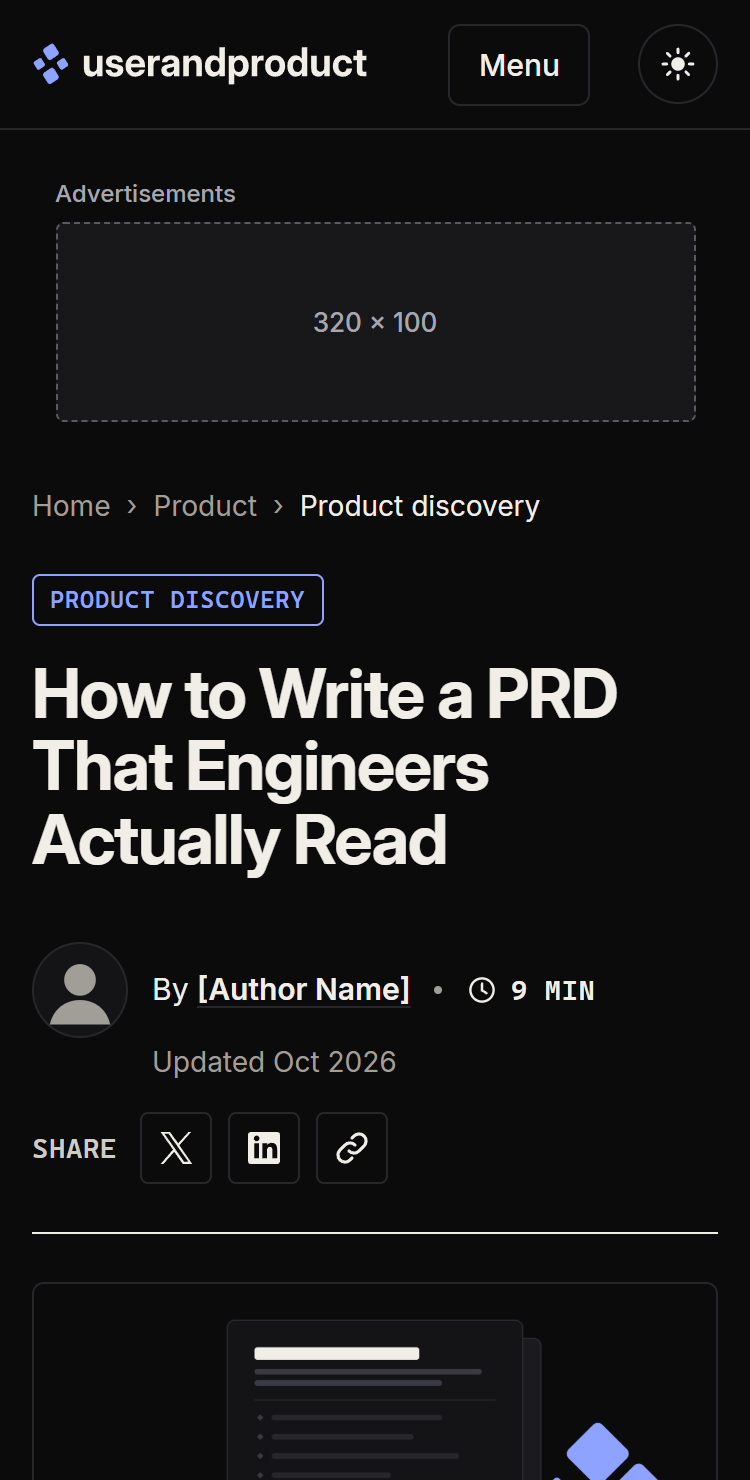
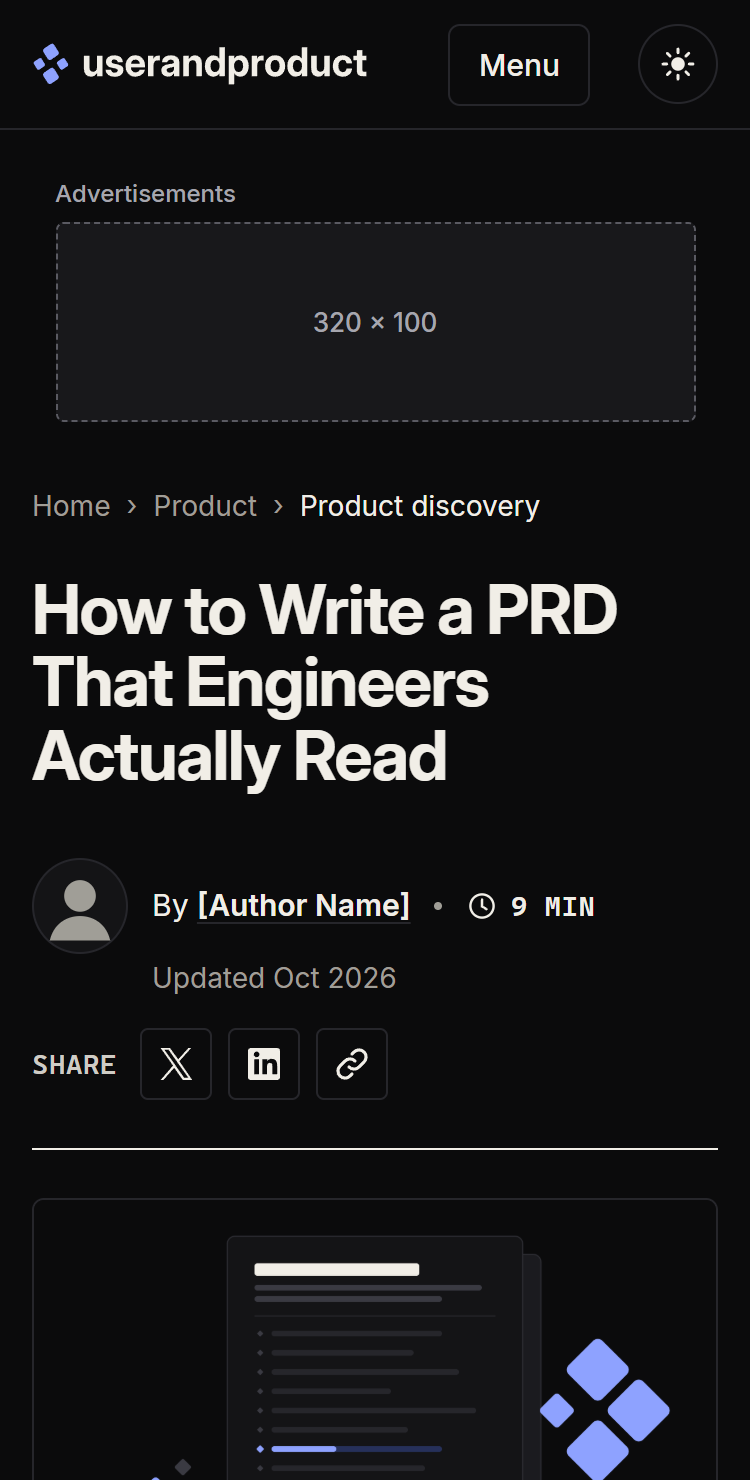
Article A: chip removed, fluid three-column grid tuned for laptop screens

diff --git a/research/mockups/article/article.css b/research/mockups/article/article.css
@@ -32,8 +32,9 @@
 
 /* =========================================================
    A: Sidebar, on the Tiger Data structure. Full-width top block, hairline rule,
-   then three columns from 1200px: 260px sticky tools and contents, the reading
-   column, a 300px ad rail. Both rails live in .layout, so they stop at the body end.
+   then a fluid grid. From 1280px three columns: a 200px+ sticky tools and contents
+   rail, the reading column (560 to 720px) and a fixed 300px rail. Both rails live
+   in .layout, so they stop at the body end.
    ========================================================= */
 .va{--frame:1280px;--mono:ui-monospace,"Cascadia Mono","SFMono-Regular",Consolas,Menlo,monospace}
 .va .page{max-width:1280px}
@@ -65,7 +66,7 @@
 .va .top-rule{height:1px;border:0;background:var(--rule-strong);margin:var(--s5) 0 0}
 
 .va .layout{display:grid;grid-template-columns:minmax(0,1fr)}
-.va .side,.va .rail{display:none}
+.va .side-col,.va .rail{display:none}
 .va .main{min-width:0;max-width:720px;padding-top:var(--s5)}
 .va .main .hero-fig{margin-top:0}
 .va .main>.deck{margin-top:var(--s5);font-size:19px;line-height:1.55}
@@ -83,47 +84,65 @@
 
 /* in-body units: two 336x280 below 1024px; from 1024px one 300x250 between the third and fourth H2 */
 .va [data-ad="in-body-300x250"]{display:none}
-.ad--sky .ad__box{--w:160px;--h:600px}
+.ad--rail .ad__box{--w:300px;--h:250px}
+/* Content box = min(viewport, 1280 or 1440 from 1360) minus two 40px gutters.
+   1024 to 1199: 240px left rail + 32px + reading column (672 to 720px). The right rail's block follows the body
+   in the reading column: the compact list beside a 300x250, not sticky. */
 @media (min-width:1024px){
   .va [data-ad="in-article-1"],.va [data-ad="in-article-2"]{display:none}
   .va [data-ad="in-body-300x250"]{display:block}
   .va .layout{grid-template-columns:240px minmax(0,720px);column-gap:32px}
-  .va .side{display:flex;flex-direction:column;align-items:flex-start;gap:var(--s6);position:sticky;top:24px;align-self:start;
-    max-height:calc(100vh - 48px);overflow:auto;padding-top:var(--s6);grid-column:1;grid-row:1}
+  /* .side-col spans only the body's row, so the sticky rail inside it stops where the body ends */
+  .va .side-col{display:block;grid-column:1;grid-row:1;min-width:0}
+  .va .side{display:flex;flex-direction:column;align-items:flex-start;gap:var(--s6);position:sticky;top:24px;
+    max-height:calc(100vh - 48px);overflow:auto;padding-top:var(--s6)}
   .va .main{grid-column:2;grid-row:1;padding-top:var(--s6)}
   .va .m-only,.va .toc-m{display:none}
-}
-/* right rail from 1200px, two blocks: the compact "More in <category>" list, then the rail unit.
-   The rail is as tall as the body. The list scrolls with the page; the ad's track fills the rest of the rail
-   and only the ad sticks inside it, so it stops at the body end.
-   Rail unit: 160x600 from 1200 to 1439px, 300x600 from 1440px. */
-@media (min-width:1200px){
-  .va .layout{grid-template-columns:240px minmax(0,720px) 160px}
-  .va .rail{display:flex;flex-direction:column;gap:var(--s6);grid-column:3;grid-row:1;padding-top:var(--s6);min-width:0}
+  .va .rail{display:grid;grid-template-columns:minmax(0,1fr) 300px;column-gap:32px;align-items:start;
+    grid-column:2;grid-row:2;margin-top:var(--s8);min-width:0}
   .va .rail .ad{margin:0}
+}
+/* 1200 to 1279: the content box is 1120 to 1199px, and three columns need 200 + 560 + 300 + 2 x 32 = 1124px,
+   so the left rail folds into the compact contents above the body and the right rail keeps its full 300px.
+   From 1200px the rail is two blocks: the compact "More in <category>" list, then the 300x600 rail unit.
+   The rail is as tall as the body; the list scrolls with the page, the ad's track fills the rest of the rail
+   and only the ad sticks inside it, so it stops at the body end. */
+@media (min-width:1200px){
+  .va .layout{grid-template-columns:minmax(0,1fr) 300px;column-gap:32px}
+  .va .side-col{display:none}
+  .va .main{grid-column:1}
+  .va .m-only,.va .toc-m{display:block}
+  .va .rail{display:flex;flex-direction:column;gap:var(--s6);grid-column:2;grid-row:1;margin-top:0;padding-top:var(--s6)}
   .va .rail__track{flex:1 0 auto}
   .va .rail__sticky{position:sticky;top:24px}
+  .ad--rail .ad__box{--h:600px}
+  .ad--rail .sz-0{display:none}
+  .ad--rail .sz-1{display:block}
+}
+/* from 1280px: three fluid columns. The right rail is fixed at the ad's 300px; the reading column grows first,
+   up to its 720px measure; the left rail takes what is left (200px at 1280, 244px at 1440 and up).
+   Gaps stay 32px while the page is capped at 1280 (to 1359px), then grow to 48px at 1440 as the cap lifts to 1440. */
+@media (min-width:1280px){
+  .va .layout{grid-template-columns:minmax(200px,1fr) minmax(560px,720px) 300px;column-gap:clamp(32px,20vw - 240px,48px)}
+  .va .side-col{display:block}
+  .va .main{grid-column:2}
+  .va .rail{grid-column:3}
+  .va .m-only,.va .toc-m{display:none}
 }
 .rail-list h2{font:500 12px/1.4 var(--mono);letter-spacing:.06em;text-transform:uppercase;color:var(--ink-3);margin:0;padding-bottom:var(--s2);border-bottom:1px solid var(--rule)}
 .rail-list ul{list-style:none;margin:0;padding:0}
 .rail-list li{border-bottom:1px solid var(--rule)}
-/* compact list: 64px 16:9 thumbnail left of a meta-size title (72px on the 300px rail) */
+/* compact list: 64px 16:9 thumbnail left of a meta-size title (72px from 1024, on the 300px rail and after the body) */
 .rail-list--compact a{display:grid;grid-template-columns:64px minmax(0,1fr);gap:10px;align-items:start;padding:10px 0;
   color:var(--ink);text-decoration:none;font:500 13px/1.3 var(--font-ui)}
 .rail-list--compact img{display:block;width:100%;height:auto;aspect-ratio:16/9;border-radius:3px;margin-top:2px}
 .rail-list--compact a:hover{color:var(--signal)}
 .rail-list--compact a:hover .rail-t{text-decoration:underline;text-underline-offset:.18em}
 .rail-list--compact a:focus-visible{outline:2px solid var(--focus);outline-offset:2px;border-radius:3px}
-@media (min-width:1440px){.rail-list--compact a{grid-template-columns:72px minmax(0,1fr);gap:12px;font-size:var(--fs-meta)}}
+@media (min-width:1024px){.rail-list--compact a{grid-template-columns:72px minmax(0,1fr);gap:12px}}
 @media (min-width:1360px){
   .va{--frame:1440px}
   .va .page{max-width:1440px}
-}
-@media (min-width:1440px){
-  .va .layout{grid-template-columns:240px minmax(0,720px) 300px;column-gap:40px}
-  .ad--sky .ad__box{--w:300px}
-  .ad--sky .sz-0{display:none}
-  .ad--sky .sz-1{display:block}
 }
 .va .after>.tpl{margin-top:var(--s8)}
 /* Just published (was Related), Tiger Data style: label on a hairline, three large cards, thumbnail, chips, title */

diff --git a/research/mockups/article/index.html b/research/mockups/article/index.html
@@ -82,9 +82,9 @@
         <img class="l-dark" src="shots/article-a-375-dark.png" alt="Variant A at phone width, dark theme" width="375" height="740" loading="lazy">
       </a>
       <h2><a href="article-a.html">A. Sidebar</a></h2>
-      <p class="note">The Tiger Data structure. A full-width top block: breadcrumb, category chip, a 60px headline on two lines, a byline row (48px avatar, author link, read time, "Updated Oct 2026") with Share buttons on the right, then a hairline rule. Below it: a sticky 240px left rail with a Copy link button, tag chips and a numbered table of contents (the section you are reading is highlighted); a 720px centre column (720px at 1280, 1366 and 1440) with the hero image, the body (running text about 71 characters a line); and from 1200px a right rail of two blocks: a compact &ldquo;More in Product discovery&rdquo; list (four pieces from the article&rsquo;s category, each a small 16:9 thumbnail, 64px wide on the 160px rail and 72px on the 300px rail, left of a title at meta size, no dates), then the rail unit (a 160&times;600 skyscraper up to 1439px, a 300&times;600 half page from 1440px). The list scrolls with the page; only the ad is sticky, in the space below the list, and it stops where the body ends. Both rails stop there; after the body the page uses the full container for the template block (three cards in a row), a &ldquo;// Just published&rdquo; row in the Tiger Data style (the label on a hairline rule, three large cards with a thumbnail, a tag chip and a 24px title, no dates; the heading is one constant in build.py, with &ldquo;Fresh from the desk&rdquo;, &ldquo;New this week&rdquo; and &ldquo;Latest&rdquo; noted as alternatives) and the newsletter line. No author box: the byline carries the author. From 1024px a 300&times;250 sits in the body between the third and fourth H2. On phones the contents fold into a disclosure, two 336&times;280 units sit between sections, and a collapsible 320&times;50 anchor shows only while you read the body (demonstration only). Leaderboard under the header; container up to 1360px. Body type: Inter 18px, headings Inter Display Bold.</p>
+      <p class="note">The Tiger Data structure. A full-width top block: breadcrumb (the category shows there only, no chip above the title), a 60px headline on two lines, a byline row (48px avatar, author link, read time, "Updated Oct 2026") with Share buttons on the right, then a hairline rule. Below it a fluid grid. From 1280px three columns: a sticky left rail with tag chips and a numbered table of contents (the section you are reading is highlighted), 200px at 1280 and 1366 and 244px from 1440; the reading column, 636px at 1280 and 720px from 1366 (running text about 70 characters a line, never narrower than 560px); and a fixed 300px right rail. Gaps are 32px up to 1359px and grow to 48px at 1440. From 1200 to 1279px the three columns do not fit, so the left rail folds into the compact contents above the body and the right rail keeps its 300px. The right rail has two blocks: a compact &ldquo;More in Product discovery&rdquo; list (four pieces from the article&rsquo;s category, each a 72px 16:9 thumbnail left of a title at meta size, two lines at most, no dates), then a 300&times;600 half page. The list scrolls with the page; only the ad is sticky, in the space below the list, and it stops where the body ends. From 1024 to 1199px the page has the left rail and the reading column, and the same block follows the body in the reading column: the list beside a 300&times;250, not sticky. Both rails stop at the body end; after the body the page uses the full container for the template block (three cards in a row), a &ldquo;// Just published&rdquo; row in the Tiger Data style (the label on a hairline rule, three large cards with a thumbnail, a tag chip and a 24px title, no dates; the heading is one constant in build.py, with &ldquo;Fresh from the desk&rdquo;, &ldquo;New this week&rdquo; and &ldquo;Latest&rdquo; noted as alternatives) and the newsletter line. No author box: the byline carries the author. From 1024px a 300&times;250 sits in the body between the third and fourth H2. On phones the contents fold into a disclosure, two 336&times;280 units sit between sections, and a collapsible 320&times;50 anchor shows only while you read the body (demonstration only). Leaderboard under the header; container up to 1440px. Checked at ten viewports from 375&times;812 to 1920&times;1080, light and dark (<a href="shots/README.md">shots/README.md</a>). Body type: Inter 18px, headings Inter Display Bold.</p>
       <dl class="facts">
-        <dt>Ad units</dt><dd>3 from 1200px (leaderboard, rail unit, 300&times;250 in the body); 2 at 1024 to 1199; 4 at 375 (320&times;100 leaderboard, 2 in-article, anchor)</dd>
+        <dt>Ad units</dt><dd>3 from 1024px (leaderboard, 300&times;250 in the body, the rail unit: 300&times;600 on the rail from 1200, 300&times;250 after the body at 1024 to 1199), never more than 2 in one view; 4 at 375 (320&times;100 leaderboard, 2 in-article, anchor)</dd>
         <dt>Max in view</dt><dd>2 at 1280&times;720, 1280&times;800, 1366&times;768 and 1440&times;900; 1 at 1100 and 768; 2 at 375</dd>
         <dt>Mobile density</dt><dd>6.2% of the article, 5.8% of the page</dd>
       </dl>

diff --git a/research/mockups/article/article-a.html b/research/mockups/article/article-a.html
@@ -36,7 +36,6 @@
     <nav class="crumbs" aria-label="Breadcrumb"><ol>
       <li><a href="../home/index.html">Home</a></li><li><a href="../category/index.html">Product</a></li><li><a href="../category/index.html" aria-current="page">Product discovery</a></li>
     </ol></nav>
-    <a class="chip chip--cat" href="../category/index.html">Product discovery</a>
     <h1>How to Write a PRD That Engineers Actually Read</h1>
     <div class="byrow">
       <div class="by">
@@ -58,10 +57,10 @@
   </header>
   <hr class="top-rule">
   <div class="layout">
-    <aside class="side" aria-label="Article tools and contents">
+    <div class="side-col"><aside class="side" aria-label="Article tools and contents">
       <ul class="chips" aria-label="Tags"><li><a href="#">PRD</a></li><li><a href="#">Discovery</a></li><li><a href="#">Templates</a></li></ul>
       <nav class="toc toc--num" data-toc aria-labelledby="toc-h"><h2 id="toc-h">Table of contents</h2><ol><li><a href="#why-prds-fail"><span class="n">01</span>Why most PRDs fail</a></li><li><a href="#twelve-questions"><span class="n">02</span>The twelve questions to answer first</a></li><li><a href="#structure"><span class="n">03</span>The structure that works</a></li><li><a href="#worked-example"><span class="n">04</span>A worked example</a></li><li><a href="#acceptance"><span class="n">05</span>Acceptance lines and open questions</a></li><li><a href="#leave-out"><span class="n">06</span>What to leave out</a></li><li><a href="#template"><span class="n">07</span>Get the PRD template</a></li></ol></nav>
-    </aside>
+    </aside></div>
     <div class="main">
       <figure class="hero-fig">
       <picture><source srcset="img/hero-prd-dark.png" media="(prefers-color-scheme: dark)" data-dark><img class="" src="img/hero-prd-light.png" width="1200" height="675" alt="Illustration: a PRD page with twelve question lines, three of them marked in blue, beside four blue tiles" fetchpriority="high" decoding="async"></picture>
@@ -176,10 +175,11 @@ grep -rn "TBD" docs/prd/ | sort | tee open-items.txt | wc -l</code></pre>
     </div>
     <aside class="rail" aria-label="More to read">
       <nav class="rail-list rail-list--compact" aria-labelledby="rail-more-h"><h2 id="rail-more-h">More in Product discovery</h2><ul><li><a href="article-a.html"><img src="img/thumbs/customer-interview-thumb.png" width="72" height="41" alt="" loading="lazy" decoding="async"><span class="rail-t">How to run a customer interview without leading the answers</span></a></li><li><a href="article-a.html"><img src="img/thumbs/problem-statement-thumb.png" width="72" height="41" alt="" loading="lazy" decoding="async"><span class="rail-t">A problem statement the whole team can repeat</span></a></li><li><a href="article-a.html"><img src="img/thumbs/opportunity-tree-thumb.png" width="72" height="41" alt="" loading="lazy" decoding="async"><span class="rail-t">Turning interview notes into choices with an opportunity tree</span></a></li><li><a href="article-a.html"><img src="img/thumbs/stop-discovery-thumb.png" width="72" height="41" alt="" loading="lazy" decoding="async"><span class="rail-t">When to stop discovery and start building</span></a></li></ul></nav>
-      <div class="rail__track"><div class="rail__sticky"><aside class="ad ad--sky" data-ad="rail-unit" aria-label="Advertisement"><span class="ad__label">Advertisements</span><div class="ad__box"><span class="sz-0">160 &times; 600</span><span class="sz-1">300 &times; 600 half page</span></div></aside></div></div>
+      <div class="rail__track"><div class="rail__sticky"><aside class="ad ad--rail" data-ad="rail-unit" aria-label="Advertisement"><span class="ad__label">Advertisements</span><div class="ad__box"><span class="sz-0">300 &times; 250</span><span class="sz-1">300 &times; 600 half page</span></div></aside></div></div>
     </aside>
   </div>
-  <!-- The sticky rails live only inside .layout, so they stop where the body ends. The right rail's list
+  <!-- The sticky rails live only inside .layout, so they stop where the body ends. The left rail sticks inside
+       .side-col, which spans only the body's row, so it also stops there when the right rail's block follows the body. The right rail's list
        scrolls with the page; only the ad is sticky, inside its own track below the list. -->
   <!-- After the body the page uses the full container: template, just published, newsletter. No author box (the byline carries the author). -->
   <div class="after">

diff --git a/research/mockups/article/shots.py b/research/mockups/article/shots.py
@@ -1,0 +1,72 @@
+"""Screenshots and layout checks for article variant A.
+
+Run: python shots.py   (the page must be served at http://localhost/user-and-product/research/mockups/article/)
+Writes shots/a-<width>x<height>-<light|dark>.png (the top 1200px of the page) for each viewport below and
+prints, per viewport: horizontal overflow, the three column widths, the running-text measure, the lines of the
+longest title in the compact list, the most ad units in one view, whether the sticky rails stop at the body end,
+and the mobile ad density (ad heights over page height at 375).
+"""
+import json
+from pathlib import Path
+from playwright.sync_api import sync_playwright
+
+URL = "http://localhost/user-and-product/research/mockups/article/article-a.html"
+OUT = Path(__file__).resolve().parent / "shots"
+OUT.mkdir(exist_ok=True)
+VIEWPORTS = [(375, 812), (768, 1024), (1024, 768), (1280, 720), (1280, 800), (1366, 768),
+             (1440, 900), (1536, 864), (1680, 1050), (1920, 1080)]
+
+MEASURE = """() => {
+  const w = el => el && el.offsetParent !== null ? Math.round(el.getBoundingClientRect().width) : 0;
+  const titles = [...document.querySelectorAll('.rail-t')].filter(t => t.offsetParent);
+  const lines = titles.map(t => Math.round(t.getBoundingClientRect().height / parseFloat(getComputedStyle(t).lineHeight)));
+  const p = document.querySelector('.prose > p');
+  // in-page units; the fixed anchor (phones only) is counted on its own as always in view
+  const ads = [...document.querySelectorAll('.ad')].filter(a => a.offsetParent)
+    .map(a => { const r = a.getBoundingClientRect(); return [r.top + scrollY, r.height, a.dataset.ad]; });
+  return {over: document.documentElement.scrollWidth - innerWidth,
+          left: w(document.querySelector('.side')), main: w(document.querySelector('.main')),
+          rail: w(document.querySelector('.rail')), railTop: document.querySelector('.rail') && document.querySelector('.rail').offsetParent
+            ? Math.round(document.querySelector('.rail').getBoundingClientRect().top - document.querySelector('.main').getBoundingClientRect().bottom) : null,
+          text: w(p), ch: p ? Math.round(p.getBoundingClientRect().width / (parseFloat(getComputedStyle(p).fontSize) * 0.5)) : 0,
+          lines, ads, h: document.documentElement.scrollHeight,
+          anchor: getComputedStyle(document.querySelector('.anchor')).display !== 'none' ? 84 : 0,
+          railInList: titles.length ? Math.round(titles[0].closest('.rail-list').getBoundingClientRect().width) : 0};
+}"""
+
+# scroll so the body's end sits mid-screen, then check the sticky blocks have not passed it
+STICKY = """() => {
+  const main = document.querySelector('.main'), side = document.querySelector('.side'), ad = document.querySelector('.rail__sticky');
+  scrollTo({top: main.getBoundingClientRect().bottom + scrollY - innerHeight / 2, behavior: 'instant'});
+  const mb = main.getBoundingClientRect().bottom, out = {};
+  if (side && side.offsetParent) out.side = Math.round(side.getBoundingClientRect().bottom - mb);
+  if (ad && ad.offsetParent && getComputedStyle(ad).position === 'sticky') out.ad = Math.round(ad.getBoundingClientRect().bottom - mb);
+  return out;
+}"""
+
+rows = []
+with sync_playwright() as pw:
+    b = pw.chromium.launch(channel="chrome")  # the installed Chrome, headless
+    for vw, vh in VIEWPORTS:
+        for scheme in ("light", "dark"):
+            pg = b.new_page(viewport={"width": vw, "height": vh}, color_scheme=scheme)
+            pg.goto(URL, wait_until="networkidle")
+            pg.evaluate("() => document.querySelectorAll('img[loading=lazy]').forEach(i => i.loading = 'eager')")
+            pg.wait_for_function("() => [...document.images].every(i => i.complete)")
+            pg.screenshot(path=str(OUT / f"a-{vw}x{vh}-{scheme}.png"), full_page=True,
+                          clip={"x": 0, "y": 0, "width": vw, "height": 1200})
+            if scheme == "light":
+                m = pg.evaluate(MEASURE)
+                m["sticky"] = pg.evaluate(STICKY)
+                worst = max(sum(1 for t, h, _ in m["ads"] if t < y + vh and t + h > y) for y in range(0, m["h"], 50)) + (1 if m["anchor"] else 0)
+                m["worst"] = worst
+                m["vp"] = f"{vw}x{vh}"
+                if vw == 375:
+                    # the anchor is on screen the whole time it shows: count its share of the screen, not of the page
+                    m["density"] = round(100 * sum(a[1] for a in m["ads"]) / m["h"], 1)
+                    m["anchor_share"] = round(100 * m["anchor"] / vh, 1)
+                del m["ads"]
+                rows.append(m)
+                print(json.dumps(m))
+            pg.close()
+    b.close()

diff --git a/research/mockups/article/build.py b/research/mockups/article/build.py
@@ -157,7 +157,8 @@ def ad(kind, name):
         "rect": '<span class="sz-0">336 &times; 280</span>',
         "side": '<span class="sz-0">300 &times; 250</span>',
         "half": '<span class="sz-0">300 &times; 600 half page</span>',
-        "sky": '<span class="sz-0">160 &times; 600</span><span class="sz-1">300 &times; 600 half page</span>',
+        # A's rail unit: 300x600 half page on the 300px rail from 1200px; 300x250 when the rail drops below the body (1024 to 1199px)
+        "rail": '<span class="sz-0">300 &times; 250</span><span class="sz-1">300 &times; 600 half page</span>',
     }[kind]
     return (f'<aside class="ad ad--{kind}" data-ad="{name}" aria-label="Advertisement">'
             f'<span class="ad__label">{AD_LABEL}</span><div class="ad__box">{sizes}</div></aside>')
@@ -503,7 +504,9 @@ ICON_LINK = ('<svg viewBox="0 0 20 20" aria-hidden="true" focusable="false"><pat
 TAGS = '<ul class="chips" aria-label="Tags"><li><a href="#">PRD</a></li><li><a href="#">Discovery</a></li><li><a href="#">Templates</a></li></ul>'
 
 # Right rail, top to bottom: a compact "More in <category>" list (small thumbnail, title at meta size), then the
-# rail ad, which sticks in the space left below the list. No dates.
+# rail ad, which sticks in the space left below the list. No dates. From 1200px it is a fixed 300px column;
+# from 1024 to 1199px the same block sits after the body in the reading column (list beside a 300x250, not sticky).
+# The category shows in the breadcrumb only; there is no category chip above the title.
 CATEGORY = "Product discovery"
 MORE_IN_CAT = [
     # (thumbnail, title)
@@ -519,7 +522,7 @@ def rail_a():
         f'<span class="rail-t">{t}</span></a></li>' for img, t in MORE_IN_CAT)
     return f"""<aside class="rail" aria-label="More to read">
       <nav class="rail-list rail-list--compact" aria-labelledby="rail-more-h"><h2 id="rail-more-h">More in {CATEGORY}</h2><ul>{more}</ul></nav>
-      <div class="rail__track"><div class="rail__sticky">{ad("sky", "rail-unit")}</div></div>
+      <div class="rail__track"><div class="rail__sticky">{ad("rail", "rail-unit")}</div></div>
     </aside>"""
 
 def toc_numbered():
@@ -536,7 +539,6 @@ def variant_a():
 <article>
   <header class="top">
     {crumbs()}
-    <a class="chip chip--cat" href="{CATEGORY_URL}">{CATEGORY}</a>
     <h1>{TITLE}</h1>
     <div class="byrow">
       <div class="by">
@@ -558,10 +560,10 @@ def variant_a():
   </header>
   <hr class="top-rule">
   <div class="layout">
-    <aside class="side" aria-label="Article tools and contents">
+    <div class="side-col"><aside class="side" aria-label="Article tools and contents">
       {TAGS}
       <nav class="toc toc--num" data-toc aria-labelledby="toc-h"><h2 id="toc-h">Table of contents</h2><ol>{toc_numbered()}</ol></nav>
-    </aside>
+    </aside></div>
     <div class="main">
       {HERO}
       <p class="deck">{DECK}</p>
@@ -573,7 +575,8 @@ def variant_a():
     </div>
     {rail_a()}
   </div>
-  <!-- The sticky rails live only inside .layout, so they stop where the body ends. The right rail's list
+  <!-- The sticky rails live only inside .layout, so they stop where the body ends. The left rail sticks inside
+       .side-col, which spans only the body's row, so it also stops there when the right rail's block follows the body. The right rail's list
        scrolls with the page; only the ad is sticky, inside its own track below the list. -->
   <!-- After the body the page uses the full container: template, just published, newsletter. No author box (the byline carries the author). -->
   <div class="after">

diff --git a/research/mockups/article/shots/README.md b/research/mockups/article/shots/README.md
@@ -1,0 +1,35 @@
+# Variant A at ten viewports (10 October 2026)
+
+Screenshots of the top 1200 px of `article-a.html`, light and dark, named `a-<width>x<height>-<theme>.png`.
+Made and measured with `../shots.py` (run `python shots.py` from `research/mockups/article/` while XAMPP serves the page).
+The `article-*-375*.png` files are the thumbnails on the mockup index.
+
+Widths are rendered pixels. The reading column is the `.main` track; running text inside it is capped at 35 em
+(630 px at 18 px, about 70 characters a line). "Rail list" is the longest title in the compact
+"More in Product discovery" list, in lines. "Ads in view" is the most ad units in any one screen while scrolling
+(the phone anchor counts as always in view).
+
+| Viewport | Left rail px | Reading column px | Right rail px | Result |
+|---|---|---|---|---|
+| 375 × 812 | none | 343 | none | Pass. No overflow. Contents in the disclosure, rail hidden. Ads in view 2; in-page ad density 5.0% of the page, anchor 10.3% of the screen. |
+| 768 × 1024 | none | 688 | none | Pass. No overflow. Text 630 px. Ads in view 1. |
+| 1024 × 768 | 240 | 672 | none (block after the body, 672) | Pass. No overflow. Text 630 px. The list (340 px, titles 2 lines) sits beside a 300 × 250 after the body. Left rail stops at the body end. Ads in view 1. |
+| 1280 × 720 | 200 | 636 | 300 | Pass. No overflow. Text 630 px. Titles 2 lines. Both sticky blocks stop at the body end. Ads in view 2. |
+| 1280 × 800 | 200 | 636 | 300 | Pass. Same as 1280 × 720. |
+| 1366 × 768 | 200 | 720 | 300 | Pass. No overflow. Text 630 px. Titles 2 lines. Gap 33 px. Ads in view 2. |
+| 1440 × 900 | 244 | 720 | 300 | Pass. No overflow. Gap 48 px. Titles 2 lines. Ads in view 2. |
+| 1536 × 864 | 244 | 720 | 300 | Pass. Container capped at 1440, centred. |
+| 1680 × 1050 | 244 | 720 | 300 | Pass. Same as 1536. |
+| 1920 × 1080 | 244 | 720 | 300 | Pass. Same as 1536. |
+
+Also checked without screenshots: 1100 and 1199 (240 / 720, block after the body), 1200 to 1279
+(no left rail, contents in the disclosure, reading column 720, rail 300), 1359 (200 / 636 / 300) and 1360 (200 / 716 / 300).
+No horizontal scroll at any of them.
+
+## Why the left rail folds below 1280
+
+The content box is the viewport (capped at 1280 px, 1440 px from 1360) minus two 40 px gutters.
+Three columns at their minimums need 200 + 560 + 300 + 2 × 32 = 1124 px.
+At 1200 the box is 1120 px, so they cannot fit; at 1280 it is 1200 px, which leaves the reading column 636 px.
+From 1204 to 1279 they would just fit, but the reading column would be 560 to 635 px, under the 630 px
+text measure for most of that range, so the fold happens at 1280 rather than at the first width where the sum works.

diff --git a/research/discussion/context.md b/research/discussion/context.md
@@ -760,3 +760,11 @@ Owner (home, 10 Oct): remove the hero text (h1 kept only visually hidden for sea
 "Latest articles" heading so the cards start right under the leaderboard, remove the Topics section entirely, and
 redesign the section-links block (Books, Templates, Tools, Links) without the "Also on the site" title. Being applied.
 Owner: remove the newsletter sign-up from the home page for now (not needed yet). Passed to the builder mid-run.
+Owner (article A, 10 Oct): remove the category chip above the title; make the three-column layout flexible for laptop
+screens (1366x768, 1440x900 and the like): right rail fixed at 300 px from 1200 px, left rail fluid 200 to 260 px,
+reading column within its measure; if the three cannot fit, the left rail folds into the compact table of contents
+rather than squeezing. Verification at ten viewports, light and dark, with screenshots and a width table. Being applied.
+Article A tuned (10 Oct): chip removed; fluid grid: 1024 to 1199 two columns with the rail block after the body, 1200
+to 1279 the left rail folds into the compact contents and the right rail keeps 300 px, from 1280 three columns
+(left 200 to 244, reading 560 to 720, right 300); rail ad now 300x600; verified at ten viewports light and dark with
+screenshots and a width table in article/shots/README.md.
